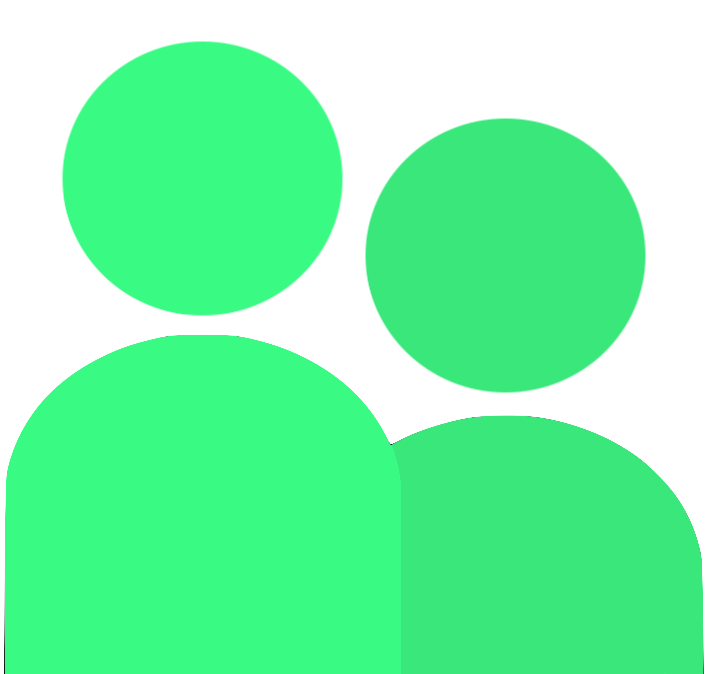
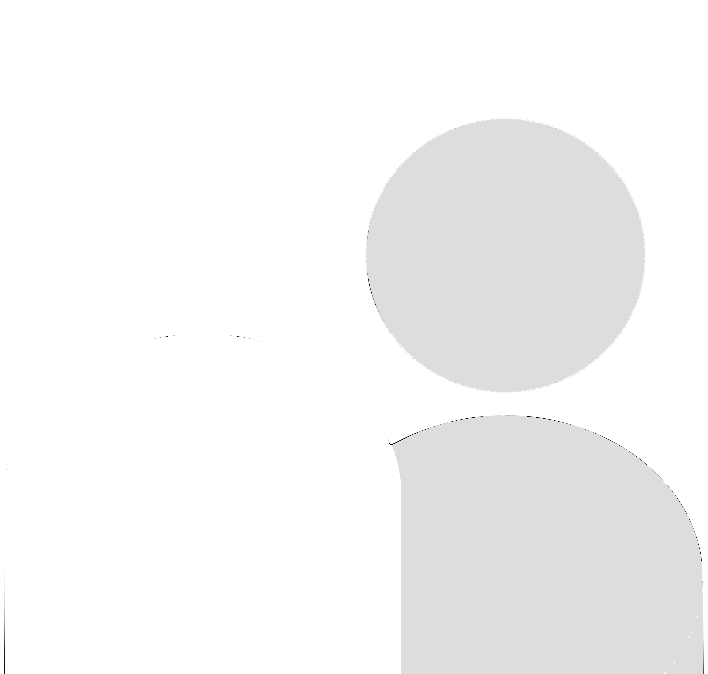
update

diff --git a/src/pages/Home.js b/src/pages/Home.js
@@ -19,6 +19,7 @@ const Home = (props) => {
         setCookies
     } = props;
 
+    const [nextVerseData, setNextVerseData] = useLocalStickyState(null, "nextVerseData");
     const [verseData, setVerseData] = useLocalStickyState(null, "verseData");
     const [showGuessDiv, setShowGuessDiv] = useState(true);
     const [bookGuess, setBookGuess] = useLocalStickyState(null, "bookGuess");
@@ -31,7 +32,6 @@ const Home = (props) => {
 
     const MAX_POINTS = 1000;
     const POINTS_PER_BOOK_OFF = 50;
-
 
 
     const calcPoints = (bookGuessed, correctBook) => {
@@ -51,15 +51,22 @@ const Home = (props) => {
         return points;
     }
 
-    const fetchVerseData = async () => {
+    const fetchNextVerseData = async () => {
         try {
             let res = await axios.get("https://theoguessr-api.onrender.com/random-verse/");
 
-            setVerseData(res.data);
+            if (!bookGuess) {
+                console.log("?");
+                setVerseData(res.data);
+            } else {
+                setNextVerseData(res.data);
+            }
+            return res.data;
         } catch (err) {
             console.log(err);
         }
     }
+
 
     // reset guessing
     useEffect(() => {
@@ -74,13 +81,19 @@ const Home = (props) => {
 
     useEffect(() => {
 
-        if (!verseData) {
-            setVerseData(null);
-            fetchVerseData();
+        const setVerse = async () => {
+            let data = await fetchNextVerseData();
+            setVerseData(data);
         }
-        
-        if (localStorage.getItem("bookGuess") !== "null") {
+
+        if (!verseData || !verseData.verseContext) {
+            if (nextVerseData) {
+                setVerseData(nextVerseData);
+            } else {
+                setVerse();
+            }
         }
+
 
         if (!cookies["access_token"]) {
           localStorage.setItem("userId", "");
@@ -94,6 +107,8 @@ const Home = (props) => {
         if (bookGuess) {
 
             setShowGuessDiv(false);
+            console.log("!");
+            fetchNextVerseData();
 
             // update db
             if (cookies["access_token"]) {
@@ -121,27 +136,26 @@ const Home = (props) => {
         <div id="guess-div">
 
             <div id="verse-div">
-                <h1>{verseData ? `"${verseData?.verseContextNoNumbers.replaceAll("¶", ``)}"` : "..."}</h1>
+                <h1 className="text-0">{verseData ? `"${verseData?.verseContextNoNumbers.replaceAll("¶", ``)}"` : "..."}</h1>
             </div>
             <div id="chapter-selection-wrapper">
 
                 <div id="testaments-wrapper">
-                    <button className="testament-btn" id="ot" onClick={() => {
+                    <button className="testament-btn bg-3 border-0" id="ot" onClick={() => {
                         setTestamentSelected("Old Testament");
                     }}>Old Testament</button>
 
-                    <button className="testament-btn" id="nt" onClick={() => {
+                    <button className="testament-btn bg-3 border-0" id="nt" onClick={() => {
                         setTestamentSelected("New Testament");
                     }}>New Testament</button>
                 </div>
                 
 
-                <div id="chapter-selection-div">
+                <div id="chapter-selection-div" className="bg-4 border-3">
                     <BooksGrid 
                         booksNames={testamantSelected === "Old Testament" ? OT : NT}
                         setBookGuess={setBookGuess}
                         verseData={verseData}
-                        fetchVerseData={fetchVerseData}
                     />
                 </div>
             </div>
@@ -151,25 +165,27 @@ const Home = (props) => {
         <div id="results-div">
 
             <div id="continue-div">
-                <h1 id="points-label">{calcPoints(bookGuess, verseData.book.name)}</h1>
-                <h3 id="you-guessed-label">You guessed: {bookGuess}</h3>
+                <h1 id="points-label" className="text-0">{calcPoints(bookGuess, verseData.book.name)}</h1>
+                <h3 id="you-guessed-label" className="text-4">You guessed: {bookGuess}</h3>
             </div>
 
             
 
-            <div id="chapter-context-div" ref={chapterContextRef}>
-                <h1>{verseData.chapter.reference}</h1>
+            <div id="chapter-context-div" className="bg-3 border-0" ref={chapterContextRef}>
+                <h1 className="text-0">{verseData.chapter.reference}</h1>
                 <p>
                     <span>{(verseData.chapter.content.substr(0, verseData.chapter.content.indexOf(verseData.verseContext))).replaceAll("¶", "\n\t")}</span>
-                    <span><mark>{verseData.verseContext.replaceAll("¶", `\n\t`)}</mark></span>
+                    <span><mark className="bg-4">{verseData.verseContext.replaceAll("¶", `\n\t`)}</mark></span>
                     <span>{(verseData.chapter.content.substr((verseData.chapter.content.indexOf(verseData.verseContext)) + verseData.verseContext.length)).replaceAll("¶", "\n\t")}</span>
                 </p>
             
             </div>
 
-            <button id="continue-btn" onClick={() => {
-                setVerseData(null);
-                fetchVerseData();
+            <button id="continue-btn" className="bg-4" onClick={() => {
+                if (nextVerseData) {
+                    setVerseData(nextVerseData);
+                }
+                setNextVerseData(null);
                 setShowGuessDiv(true);
                 setBookGuess(null);
             }}>

diff --git a/src/styles/App.css b/src/styles/App.css
@@ -13,7 +13,6 @@ div {
 }
 
 .testament-btn {
-    background-color: #003925;
     height: 40px;
     width: 200px;
     text-decoration: none;
@@ -62,12 +61,14 @@ div {
     padding-top: 40px;
     top: -10px;
     position: relative;
+    border: 0px solid;
+    background-color: rgb(0, 0, 0, 0);
 }
 
 #verse-div > h1 {
     text-align: center;
     font-size: 20px;
-    font-weight: bold;
+    font-weight: 100;
     margin: 10px;
 }
 
@@ -79,12 +80,11 @@ div {
 }
 #chapter-selection-div {
     padding: 5px;
-    border: 10px solid #003925;
+    border: 10px solid;
     width: calc(100% - 30px);
     height: calc(100% - 30px);
     top: -12.5px;
     overflow: hidden;
-    background-color: #6cbca0;
     overflow-y: scroll;
     overflow-x: hidden;
     position: relative;
@@ -94,7 +94,6 @@ div {
     height: 40px;
     width: 40px;
     background-color: rgba(0, 0, 0, 0);
-    filter: brightness(25%);
     border: 0px;
     position: fixed;
     right: 5px;
@@ -112,8 +111,7 @@ div {
 }
 
 #chapter-context-div {
-    background-color: #6cbca0;
-    border: 10px solid #003925;
+    border: 10px solid;
     height: 500px;
     width: 500px;
     position: relative;
@@ -162,7 +160,6 @@ div {
 #continue-btn {
     width: 120px;
     height: 40px;
-    background-color: #008B5B;
     border-radius: 5px;
     font-family: inherit;
     font-weight: bold;
@@ -171,16 +168,11 @@ div {
     position: relative;
     top: 50px;
     color: #f8fcfb;
-    background-color: #003925;
-    border: 0px solid #f8fcfb;
+    border: 0px solid;
 }
 
 #continue-btn:hover {
     cursor: pointer;
-}
-
-mark {
-    background-color: #008B5B;
 }
 
 #watermark {
@@ -191,7 +183,6 @@ mark {
     position: fixed;
     right: 0px;
     bottom: 0px;
-    color: #003925;
     z-index: -1;
 }
 

diff --git a/src/components/Leaderboard.js b/src/components/Leaderboard.js
@@ -31,7 +31,7 @@ const Leaderboard = (props) => {
         return (getTotal(points)/points.length).toFixed(0);
     }
 
-    return <div id="leaderboard">
+    return <div id="leaderboard" className="bg-2 border-0">
 
         <button className="close-btn" onClick={() => {
             setShowLeaderboard(false);
@@ -54,7 +54,7 @@ const Leaderboard = (props) => {
                         if (aAvg > bAvg) return -1;
                         return 0;
                     }).map((val, i) => {
-                        return <li className="leaderboard-item" key={i}>
+                        return <li className="leaderboard-item bg-3" key={i}>
                             <h3 className="username-label">{val.username}</h3>
                             <h5 className="avg-score-label">{getAvg(val.points)}</h5>
                             <h5 className="total-points-label">{getTotal(val.points)}</h5>

diff --git a/src/pages/Auth.js b/src/pages/Auth.js
@@ -186,7 +186,7 @@ const Form = ({
     status,
     setStatus
 }) => {
-    return <div className="auth-container">
+    return <div className="auth-container bg-1 border-0">
         <form onSubmit={onSubmit}>
             <h2>{label}</h2>
 
@@ -206,12 +206,12 @@ const Form = ({
 
             <h5 id="auth-status-label">{status}</h5>
 
-            <button type="submit" className="form-submit-btn auth-btn">{label}</button>
+            <button type="submit" className="form-submit-btn auth-btn bg-2 border-0">{label}</button>
 
         </form>
         
         <h3>{label === "Register" ? "Already have an account?" : "Don't have an account?"}</h3>
-        <button className="auth-btn" onClick={() => {
+        <button className="auth-btn bg-2 border-0" onClick={() => {
             setStatus("");
             if (currAuthDiv === "register") {
                 setCurrAuthDiv("login");

diff --git a/src/styles/theme.css b/src/styles/theme.css
@@ -1,0 +1,20 @@
+.bg-0 { background-color: #f8fcfb !important; }
+.bg-1 { background-color: #023145 !important; }
+.bg-2 { background-color: #15597e !important; }
+.bg-3 { background-color: #2e7b9c !important; }
+.bg-4 { background-color: #76bbc6 !important; }
+
+.border-0 { border-color: #f8fcfb !important; }
+.border-1 { border-color: #023145 !important; }
+.border-2 { border-color: #15597e !important; }
+.border-3 { border-color: #2e7b9c !important; }
+.border-4 { border-color: #76bbc6 !important; }
+
+.text-0 { color: #f8fcfb !important; }
+.text-1 { color: #023145 !important; }
+.text-2 { color: #15597e !important; }
+.text-3 { color: #2e7b9c !important; }
+.text-4 { color: #76bbc6 !important; }
+
+/* purple: #28104E #6237A0 #9754CB #dfc2f3*/
+/* blue: #051c4a #032e66 #134b83 #307fa6*/

diff --git a/src/components/NavBar.js b/src/components/NavBar.js
@@ -19,14 +19,14 @@ const Navbar = (props) => {
 
     return <div id="nav-div">
         {!cookies.access_token ? 
-            <Link to={"/auth"} className="nav-btn"> Login </Link>
+            <Link to={"/auth"} className="nav-btn text-0"> Login </Link>
          : 
             <>
-                <button onClick={logout} className="nav-btn">Logout</button>
+                <button onClick={logout} className="nav-btn text-0">Logout</button>
             </>
         }
         
-        <Link to={"/"} className="nav-btn"> Home </Link>
+        <Link to={"/"} className="nav-btn text-0"> Home </Link>
     </div>
 }
 

diff --git a/src/components/BooksGrid.js b/src/components/BooksGrid.js
@@ -11,7 +11,7 @@ const BooksGrid = (props) => {
         <div className="chapters-grid">
           {booksNames.map((val, i) => {
             return <button 
-                className="chapter-div" 
+                className="chapter-div bg-3" 
                 key={i} 
                 onClick={() => {
                   if (!verseData) return;

diff --git a/src/index.js b/src/index.js
@@ -3,8 +3,10 @@ import ReactDOM from 'react-dom/client';
 import App from './App';
 
 import "./styles/Index.css";
+import "./styles/theme.css";
 
 const root = ReactDOM.createRoot(document.getElementById('root'));
+document.getElementById("root").className = "bg-1";
 root.render(
   <App />
 );

diff --git a/src/styles/Index.css b/src/styles/Index.css
@@ -10,7 +10,6 @@ h6:hover { cursor: default; }
 p:hover { cursor: default; }
 
 #root {
-    background-color: #d1eee3;
     position: fixed;
     overflow: hidden;
     top: 0px;

diff --git a/src/App.js b/src/App.js
@@ -34,7 +34,7 @@ function App() {
       </Router>
 
       
-    <h5 id="watermark">leyuh</h5>
+    <h5 id="watermark" className="text-2">leyuh</h5>
     </div>
   );
 }
